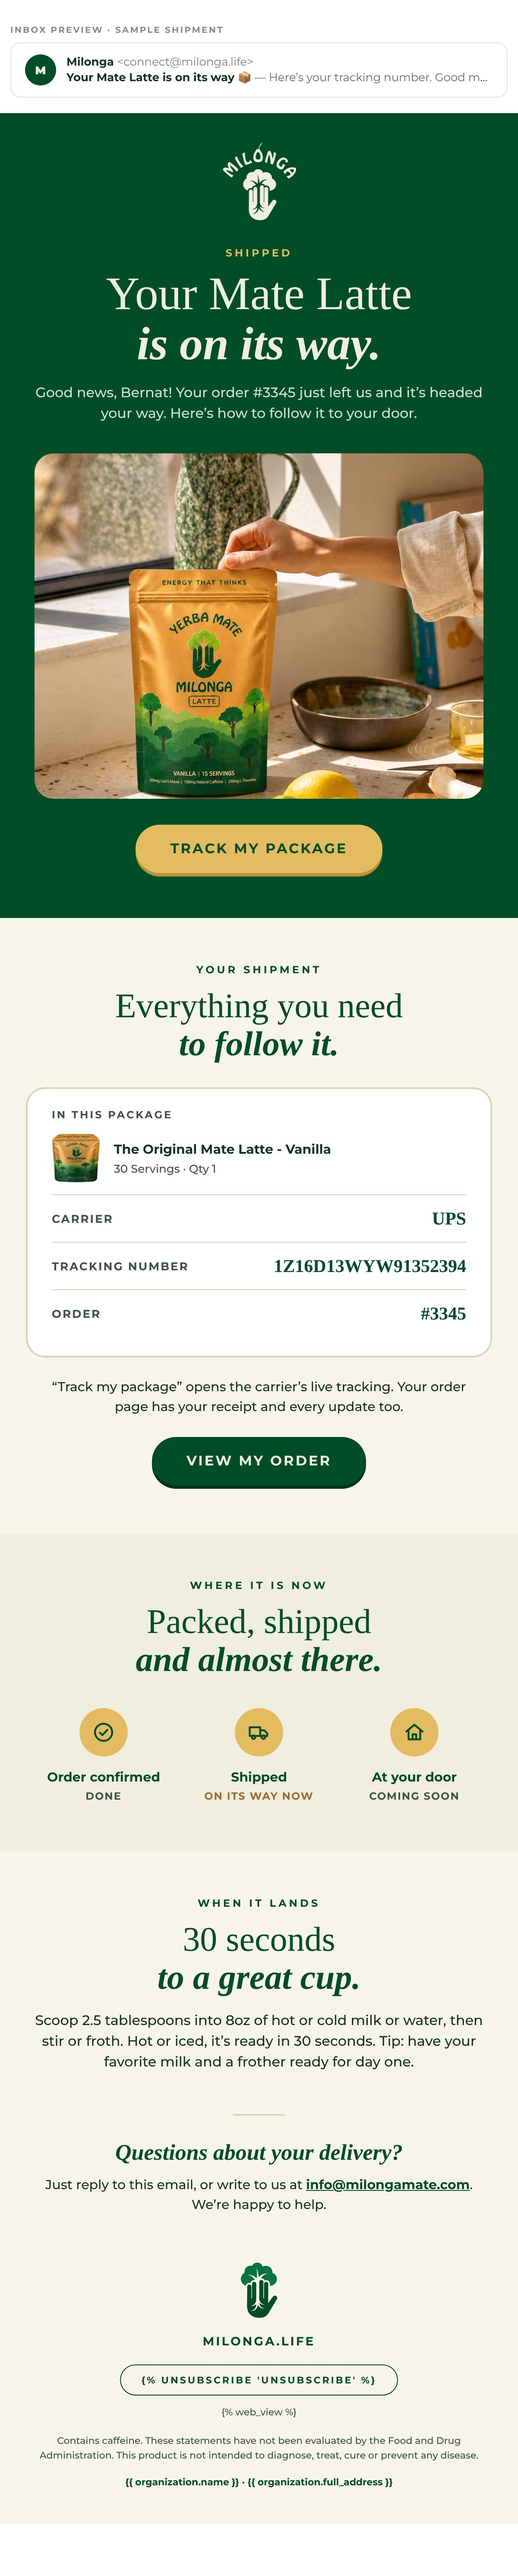
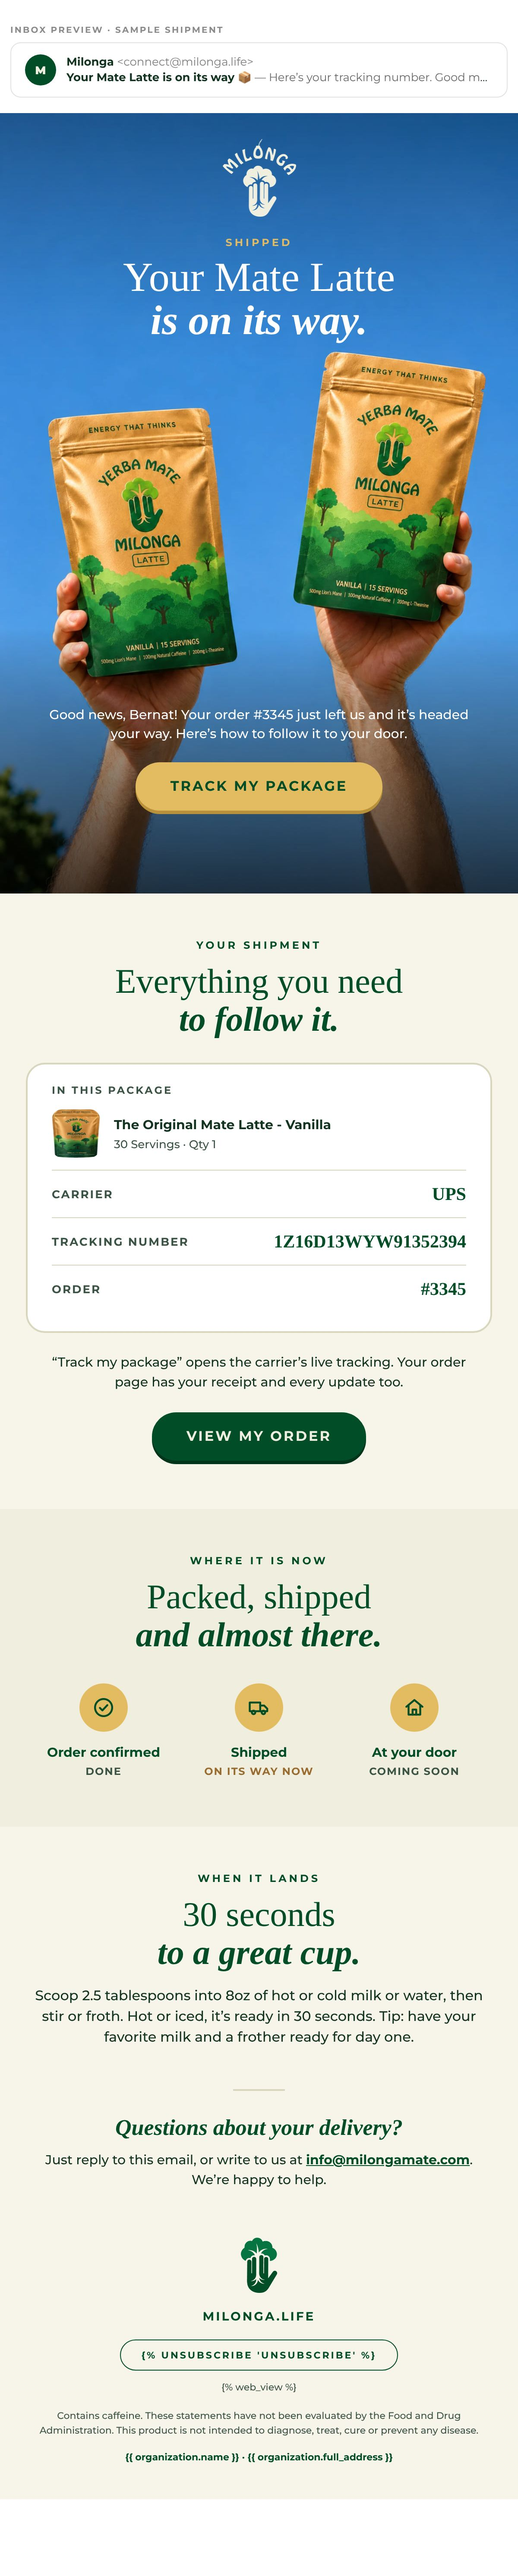
Shipping confirmation: two-pouches-in-the-sky photo as the hero background
Claude-Session: https://claude.ai/code/session_01NhEtXPnfeCJfN73SqBkUZ5

diff --git a/email-ds/refine/ship-confirm.html b/email-ds/refine/ship-confirm.html
@@ -20,8 +20,17 @@ body{margin:0;background:#FFFFFF;padding:28px 0 60px}
     .pad { padding-left:24px !important; padding-right:24px !important; }
     .pad-photo { padding-left:16px !important; padding-right:16px !important; }
     .full { width:100% !important; height:auto !important; }
-    .hero-logo { width:68px !important; height:72px !important; }
-    .h-hero { font-size:44px !important; line-height:46px !important; }
+    .hero { height:588px !important; background-size:cover !important; }
+    .hero-top { padding:18px 24px 0 !important; }
+    .hero-logo { width:57px !important; height:60px !important; }
+    .hero-eyebrow { padding-top:12px !important; font-size:10px !important; line-height:13px !important; letter-spacing:2px !important; }
+    .hero-title { font-size:32px !important; line-height:34px !important; }
+    .hero-title1 { padding-top:4px !important; }
+    .hero-gap { height:268px !important; line-height:268px !important; }
+    .hero-bottom { padding:0 22px !important; }
+    .hero-intro { font-size:11.5px !important; line-height:15px !important; }
+    .hero-cta { padding-top:12px !important; }
+    .hero .btn { padding:12px 22px !important; font-size:12px !important; letter-spacing:1px !important; }
     .h-sec { font-size:32px !important; line-height:36px !important; }
     .lead { font-size:15px !important; line-height:23px !important; }
     .card { padding:22px 18px !important; }
@@ -49,19 +58,25 @@ body{margin:0;background:#FFFFFF;padding:28px 0 60px}
 <tr><td align="center">
 <table role="presentation" class="wrap" width="600" cellpadding="0" cellspacing="0" border="0" style="width:600px;max-width:600px;table-layout:fixed;">
 
-<!-- ── 1 · IT'S ON ITS WAY (forest green; Bernat's windowsill photo, framed) ── -->
-<tr><td class="pad bg-forest" align="center" bgcolor="#004D27" style="background-color:#004D27;padding:34px 40px 8px;font-family:'Montserrat','Helvetica Neue',Helvetica,Arial,sans-serif;">
+<!-- ── 1 · IT'S ON ITS WAY: Bernat's photo (two pouches held up to a blue sky) is the
+     section's background; logo and title on the sky, the line and the button on the
+     darkened bottom ── -->
+<tr><td class="hero" align="center" valign="top" height="904" background="../exports/klaviyo/ship-confirm/img/hero-bg.jpg" bgcolor="#3C82D2" style="height:904px;background-color:#3C82D2;background-image:url('../exports/klaviyo/ship-confirm/img/hero-bg.jpg');background-size:cover;background-position:center top;background-repeat:no-repeat;padding:0;">
+<!--[if gte mso 9]><v:rect xmlns:v="urn:schemas-microsoft-com:vml" fill="true" stroke="false" style="width:600px;height:904px;"><v:fill type="frame" src="../exports/klaviyo/ship-confirm/img/hero-bg.jpg" color="#3C82D2" /><v:textbox inset="0,0,0,0"><![endif]-->
+<div class="hero-top" style="padding:30px 40px 0;font-family:'Montserrat','Helvetica Neue',Helvetica,Arial,sans-serif;text-align:center;">
 <a href="https://milonga.life/?utm_source=klaviyo&amp;utm_medium=email&amp;utm_campaign=shipping_confirmation&amp;utm_content=sc_logo" target="_blank" style="display:block;"><img class="hero-logo" src="../exports/klaviyo/pp1-e3/img/logo-beige.png" width="85" height="90" alt="Milonga" style="display:block;margin:0 auto;width:85px;height:90px;border:0;"></a>
-<div style="padding-top:30px;"><div style="font-size:12px;line-height:16px;font-weight:700;letter-spacing:3px;text-transform:uppercase;color:#E3BC62;">Shipped</div></div>
-<div class="h-hero" style="padding-top:10px;font-family:'Times New Roman',Times,Georgia,serif;font-size:54px;line-height:58px;font-weight:400;color:#F0EFDF;">Your Mate Latte</div>
-<div class="h-hero" style="font-family:'Times New Roman',Times,Georgia,serif;font-size:54px;line-height:58px;font-weight:700;font-style:italic;color:#F0EFDF;">is on its way.</div>
-<div class="lead" style="padding-top:16px;font-size:16px;line-height:24px;font-weight:500;color:#CFE0D4;">Good news, Bernat! Your order #3345 just left us and it&rsquo;s headed your way. Here&rsquo;s how to follow it <span style="white-space:nowrap;">to your door.</span></div>
-</td></tr>
-<tr><td class="pad-photo bg-forest" align="center" bgcolor="#004D27" style="background-color:#004D27;padding:26px 40px 30px;font-size:0;line-height:0;"><img class="full" src="../exports/klaviyo/ship-confirm/img/hero.jpg" width="520" height="400" alt="A hand on the Mate Latte pouch on a sunny windowsill" style="display:block;margin:0 auto;width:520px;height:400px;border:0;border-radius:22px;"></td></tr>
-<tr><td class="pad bg-forest" align="center" bgcolor="#004D27" style="background-color:#004D27;padding:0 40px 52px;font-family:'Montserrat','Helvetica Neue',Helvetica,Arial,sans-serif;">
-<!--[if mso]>
+<div class="hero-eyebrow" style="padding-top:22px;font-size:12px;line-height:16px;font-weight:700;letter-spacing:3px;text-transform:uppercase;color:#E3BC62;">Shipped</div>
+<div class="hero-title hero-title1" style="padding-top:8px;font-family:'Times New Roman',Times,Georgia,serif;font-size:48px;line-height:50px;font-weight:400;color:#FFFFFF;">Your Mate Latte</div>
+<div class="hero-title" style="font-family:'Times New Roman',Times,Georgia,serif;font-size:48px;line-height:50px;font-weight:700;font-style:italic;color:#FFFFFF;">is on its way.</div>
+</div>
+<div class="hero-gap" style="height:420px;line-height:420px;font-size:0;">&nbsp;</div>
+<div class="hero-bottom" style="padding:0 44px;font-family:'Montserrat','Helvetica Neue',Helvetica,Arial,sans-serif;text-align:center;">
+<div class="hero-intro" style="font-size:15px;line-height:22px;font-weight:500;color:#FFFFFF;">Good news, Bernat! Your order #3345 just left us and it&rsquo;s headed your way. Here&rsquo;s how to follow it <span style="white-space:nowrap;">to your door.</span></div>
+<div class="hero-cta" style="padding-top:22px;"><!--[if mso]>
 <v:roundrect xmlns:v="urn:schemas-microsoft-com:vml" xmlns:w="urn:schemas-microsoft-com:office:word" href="#" style="height:56px;v-text-anchor:middle;width:320px;" arcsize="50%" stroke="f" fillcolor="#E3BC62"><w:anchorlock/><center style="color:#004D27;font-family:Arial,sans-serif;font-size:16px;font-weight:bold;letter-spacing:2px;">Track my package</center></v:roundrect>
-<![endif]--><!--[if !mso]><!-- --><a href="#" target="_blank" class="btn" style="display:inline-block;background-color:#E3BC62;border-radius:999px;padding:20px 40px;font-family:'Montserrat','Helvetica Neue',Helvetica,Arial,sans-serif;font-size:16px;line-height:16px;font-weight:700;letter-spacing:2px;text-transform:uppercase;white-space:nowrap;color:#004D27;text-decoration:none;box-shadow:0 4px 0 #B8913A;">Track my package</a><!--<![endif]-->
+<![endif]--><!--[if !mso]><!-- --><a href="#" target="_blank" class="btn" style="display:inline-block;background-color:#E3BC62;border-radius:999px;padding:20px 40px;font-family:'Montserrat','Helvetica Neue',Helvetica,Arial,sans-serif;font-size:16px;line-height:16px;font-weight:700;letter-spacing:2px;text-transform:uppercase;white-space:nowrap;color:#004D27;text-decoration:none;box-shadow:0 4px 0 #B8913A;">Track my package</a><!--<![endif]--></div>
+</div>
+<!--[if gte mso 9]></v:textbox></v:rect><![endif]-->
 </td></tr>
 
 <!-- ── 2 · YOUR SHIPMENT: what's in the box (Mate Latte lines only), carrier,
